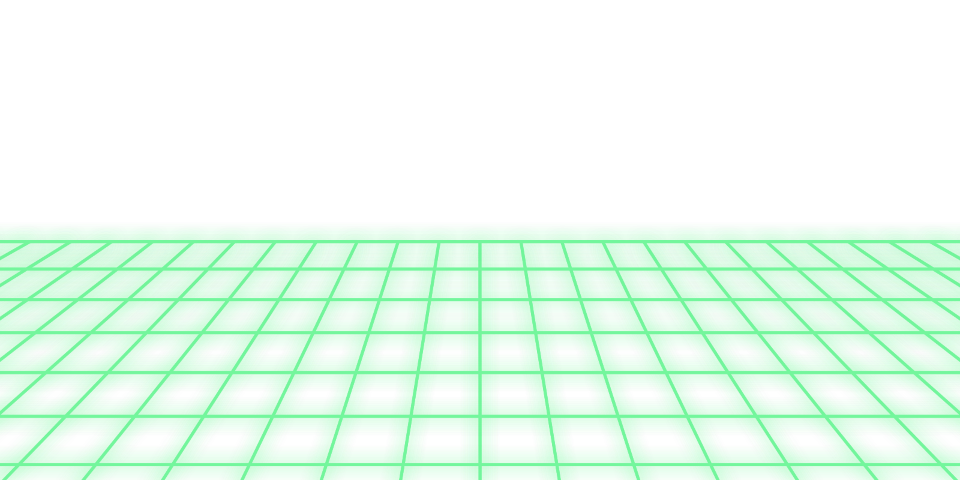
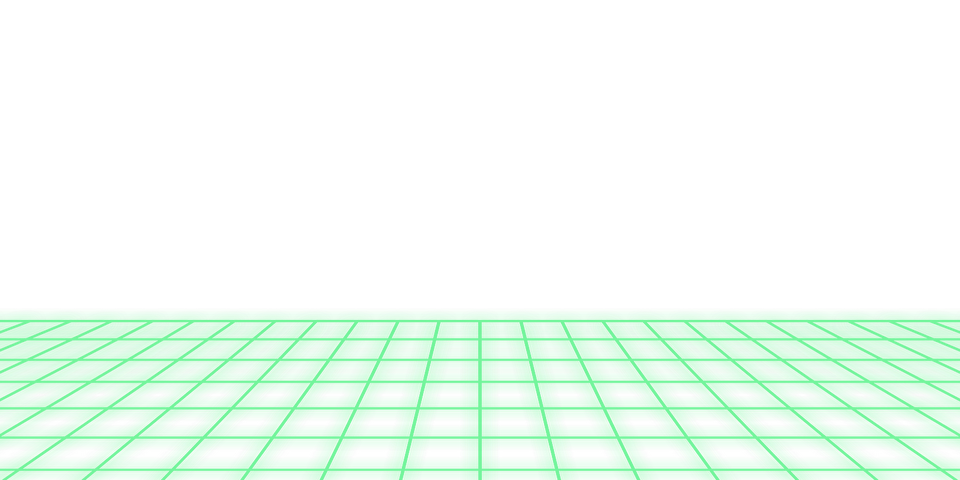
sound manager より先にtitleのBGMが初期化される問題解消のため

Changed region(s): [[0.0, 0.4688, 1.0, 1.0]]

diff --git a/Code/main.cpp b/Code/main.cpp
@@ -10,6 +10,7 @@
 #include "Title.h"
 #include "Game.h"
 #include "Worldval.h"
+#include "SoundManager/SoundManager.h"
 
 int WINAPI WinMain(HINSTANCE hInstance, HINSTANCE hPrevInstance, LPSTR lpCmdLine, int nCmdShow) {
 	//_CrtSetDbgFlag(_CRTDBG_ALLOC_MEM_DF | _CRTDBG_LEAK_CHECK_DF); //デバッグ表示を可能にする
@@ -30,6 +31,7 @@ int WINAPI WinMain(HINSTANCE hInstance, HINSTANCE hPrevInstance, LPSTR lpCmdLine
 	WorldVal::SetUp();
 	WorldVal::Set("highscore", new int(0));
 	WorldVal::Set("score", new int(0));
+	SoundManager::GetInstance();
 	SceneManager* scm = new SceneManager(new Title()); //セレクト画面が完成したから最初に実行するシーンはタイトルに固定、其々のシーンに飛ばす処理はScene_Select.cppのswitch文を確認
 	
 
